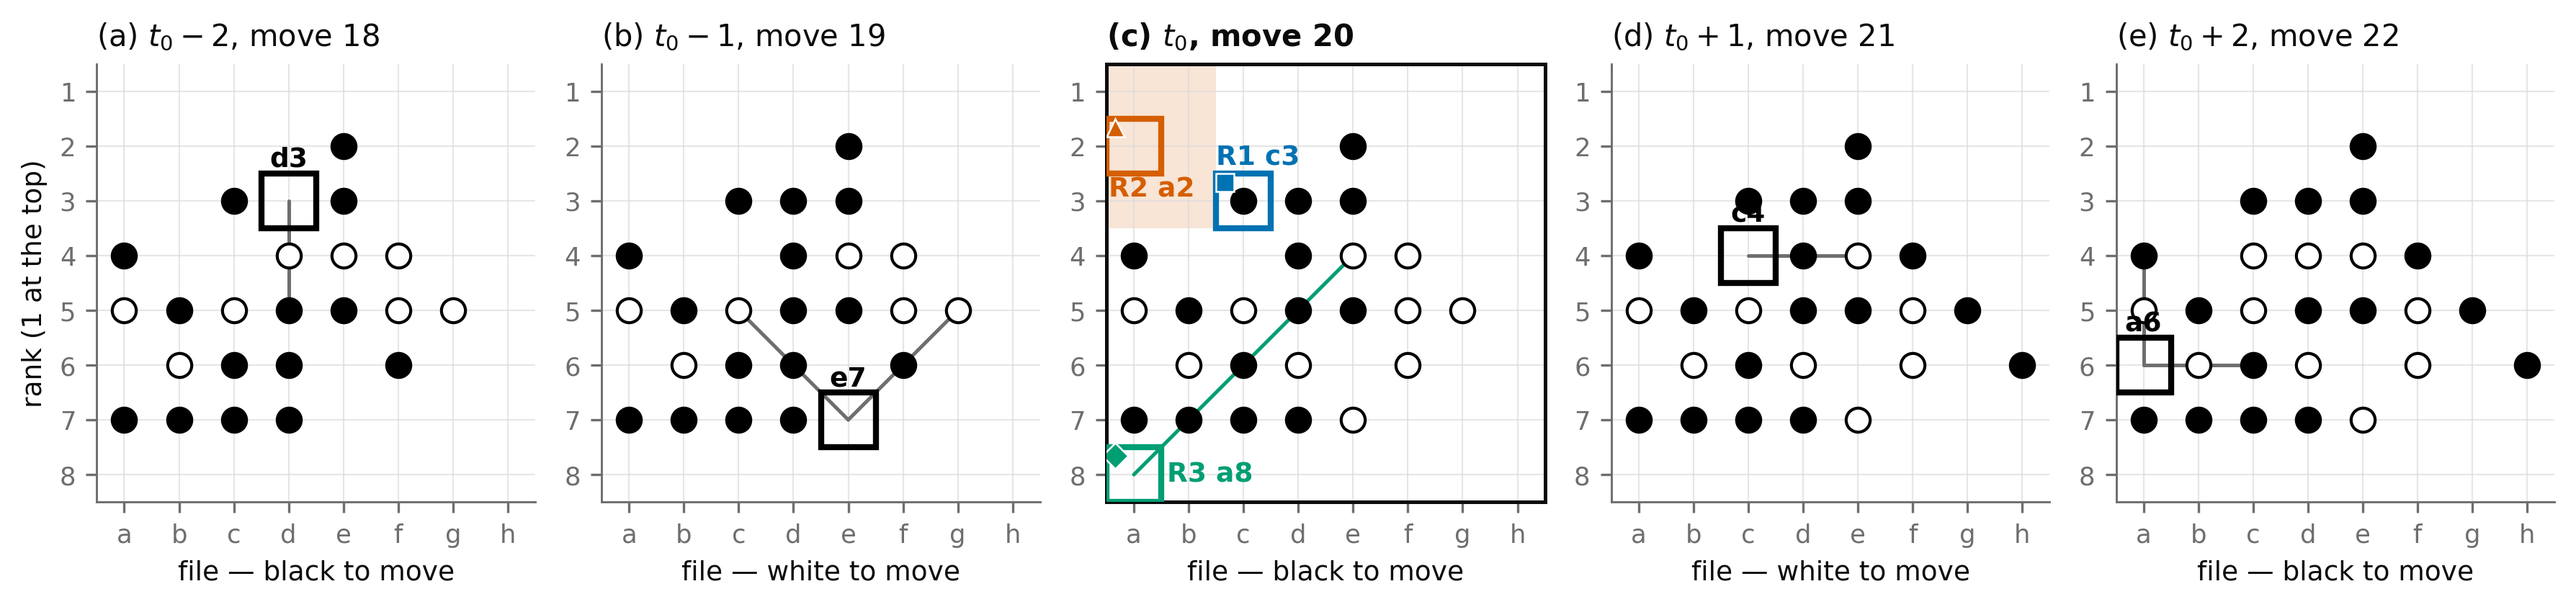
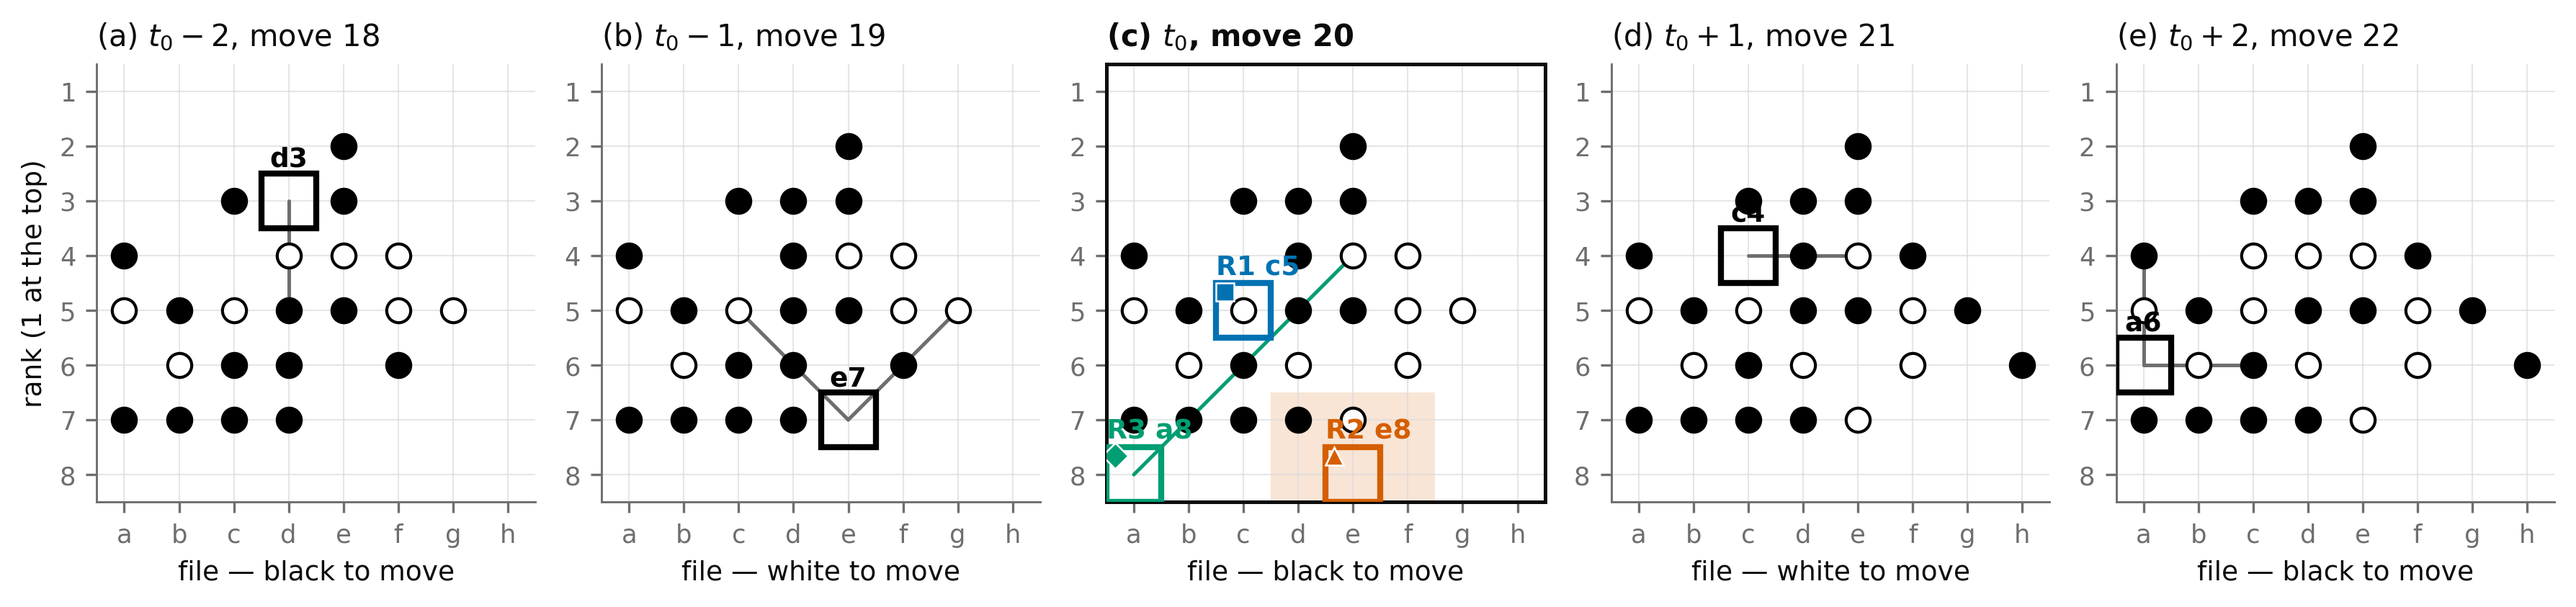
Draw each rule from the member that is legible as that rule
select_game.py took whichever branch of a rule came first, which gave R2
empty_detached -- the member that touches no opponent disc at all, so it draws an
empty square with nothing to see, and which figures/othello_rules avoids for
exactly that reason. A stated PREFERRED table now picks occupied_opp for R1 and
empty_no_bracket for R2; same game, same t0, and the peak margin improves.

The board figure's label placement was keyed on the rule rather than on the
square, so R2 moving to rank 8 put its name below the bottom edge where
matplotlib clipped it away silently. Placement now tries positions in order and
takes the first that lands inside the board.

Changed region(s): [[0.4035, 0.0925, 0.4966, 0.586], [0.4346, 0.6477, 0.5587, 0.8327]]

diff --git a/analysis/violation_divergence/illegal_move_detector/select_game.py b/analysis/violation_divergence/illegal_move_detector/select_game.py
@@ -3,7 +3,8 @@
 Two panels of one game only work if the game is honest about the claim. The criteria, in the
 order they bind:
 
-  * all three rules have a branch at this game's t0, so one board shows R1, R2 and R3
+  * all three rules have a branch at this game's t0, so one board shows R1, R2 and R3,
+    each drawn from the member category that is actually legible as its rule (PREFERRED)
   * t0 - 5 .. t0 + 5 all sit inside the scanned band, so the trace needs no truncation
   * raw's score peaks at t0 on all three rule arms, so the figure is not drawing a miss
   * the matched legal control does NOT peak at t0, so the peak reads as the violation
@@ -24,9 +25,19 @@ import numpy as np
 
 import detector
 from detector import CAND_OFFSET, RULES
+from spade.othello.taxonomy import CATEGORIES
 
 HERE = Path(__file__).resolve().parent
 TRACE_HALF = 5
+
+# Which member category to draw for each rule, and why -- `figure_othello_rules.py` settled
+# this and the panels must agree with it. R2's `empty_detached` touches no opponent disc at
+# all, so it draws an empty square with nothing to see; `empty_no_bracket` has a real line of
+# opponent discs that simply is not closed. R1's `occupied_opp` is also the cell the supervised
+# probe reads worst, so it is the one worth showing. Fall back in order if a game lacks one.
+PREFERRED = {"R1": ["occupied_opp", "occupied_own"],
+             "R2": ["empty_no_bracket", "empty_own_only", "empty_detached"],
+             "R3": ["opponent_only"]}
 
 
 def main() -> None:
@@ -41,6 +52,7 @@ def main() -> None:
     peak = move[s.argmax(1)]
     rule = detector.rule_of_row(data["category"])
 
+    category = np.array([CATEGORIES[c] for c in data["category"]])
     rows_by_game = {}
     for r in np.arange(len(data["game_id"])):
         rows_by_game.setdefault(int(data["game_id"][r]), []).append(r)
@@ -53,7 +65,8 @@ def main() -> None:
         by_rule = {u: [r for r in rows if rule[r] == u] for u in RULES}
         if not all(by_rule.values()):
             continue
-        picked = {u: v[0] for u, v in by_rule.items()}
+        rank = lambda r: PREFERRED[rule[r]].index(category[r])
+        picked = {u: min(v, key=rank) for u, v in by_rule.items()}
         if not all(peak[r] == t0 for r in picked.values()):
             continue
         control = [r for r in rows if data["is_control"][r] == 1]
@@ -64,6 +77,7 @@ def main() -> None:
         if best is None or margin > best["margin"]:
             best = {"game_id": g, "t0": t0, "margin": float(margin),
                     "rows": {u: int(v) for u, v in picked.items()},
+                    "categories": {u: str(category[v]) for u, v in picked.items()},
                     "control_row": int(control[0]),
                     "reference_row": int([r for r in rows
                                           if data["is_control"][r] == 0

diff --git a/analysis/violation_divergence/illegal_move_detector/figure_boards.py b/analysis/violation_divergence/illegal_move_detector/figure_boards.py
@@ -62,9 +62,14 @@ NEIGHBOUR_TINT = 0.16   # R2's empty neighbourhood, shaded under the grid rather
 # Where each rule's square carries its name, in cells from the square's centre. a2 and a8 sit
 # on the board's edge, where a centred name hangs off it, and c3's own disc is the evidence
 # for R1, so nothing may sit on the square itself.
-LABEL_AT = {"R1 placement":  (-0.5, -0.55, "left", "bottom"),
-            "R2 bracketing": (-0.46, 0.55, "left", "top"),
-            "R3 turn":       (0.6, 0.0, "left", "center")}
+# Where a rule's name goes, tried in order until one lands inside the board. Keying this on
+# the rule instead of on the square is what broke when `select_game.py` learned to prefer the
+# legible member of each rule: R2 moved to rank 8 and its below-the-square label fell off the
+# edge and was clipped away silently.
+LABEL_AT = ((-0.5, -0.55, "left", "bottom"),    # above, left-aligned
+            (-0.46, 0.55, "left", "top"),       # below, left-aligned
+            (0.6, 0.0, "left", "center"),       # to the right
+            (-0.6, 0.0, "right", "center"))     # to the left
 
 
 def name(square: int) -> str:
@@ -145,8 +150,10 @@ def event_panel(ax, board, rules: dict[str, int]) -> None:
     # placed in whichever empty cells sit beside it.
     for rule, square in rules.items():
         mark_square(ax, square, RULE_STYLE[rule])
-        dx, dy, ha, va = LABEL_AT[rule]
         x, y = square_xy(square)
+        dx, dy, ha, va = next((p for p in LABEL_AT
+                               if -0.5 <= x + p[0] <= 7.5 and -0.5 <= y + p[1] <= 7.5),
+                              LABEL_AT[0])
         ax.annotate(f"{rule.split()[0]} {name(square)}", (x + dx, y + dy), ha=ha, va=va,
                     fontsize=9, fontweight="bold", zorder=6,
                     color=RULE_STYLE[rule]["color"])

diff --git a/analysis/violation_divergence/illegal_move_detector/README.md b/analysis/violation_divergence/illegal_move_detector/README.md
@@ -61,6 +61,25 @@ Band semantics: every interval is a 95% percentile bootstrap over **source games
 clusters, 1,000 resamples, seed 42 — games and never positions, because one game's candidates
 overlap in *M*−1 steps.
 
+### Figure notes
+
+`board_states` — game 2498 at *t0* = 20. Rule codes are `docs/othello_rules.md`'s: **R1**
+placement-on-empty, **R2** bracketing, **R3** turn order. The four non-*t0* panels mark the
+move actually played, with the bracket lines that make it legal; the *t0* panel marks one
+illegal candidate per rule, boxed and bold-titled so the event is findable.
+
+**Each rule is drawn from the member category that is legible as that rule**, chosen by
+`select_game.py`'s `PREFERRED` table rather than by whichever branch came first: R1 is
+`occupied_opp` (c5) and R2 is `empty_no_bracket` (e8). This matters — R2's shallowest member,
+`empty_detached`, touches no opponent disc at all, so it draws an empty square with nothing to
+see, which is exactly why `figures/othello_rules` avoids it too. R2's pale tint is the
+neighbourhood that fails to close, not a ray: there is no single failing line to draw.
+
+`detector_trace` — no uncertainty band by construction: four branches of one prefix, so there
+is nothing to average over. The shaded region is `t <= t0 - M`, not `t < t0`: the MOSUM window
+reads *M* = 4 steps forward, so the score is branch-identical only until its window touches the
+splice.
+
 ### What the panels do and do not say
 
 **Game 2498 is illustrative, not typical.** `select_game.py` chose it *because* all three rule
